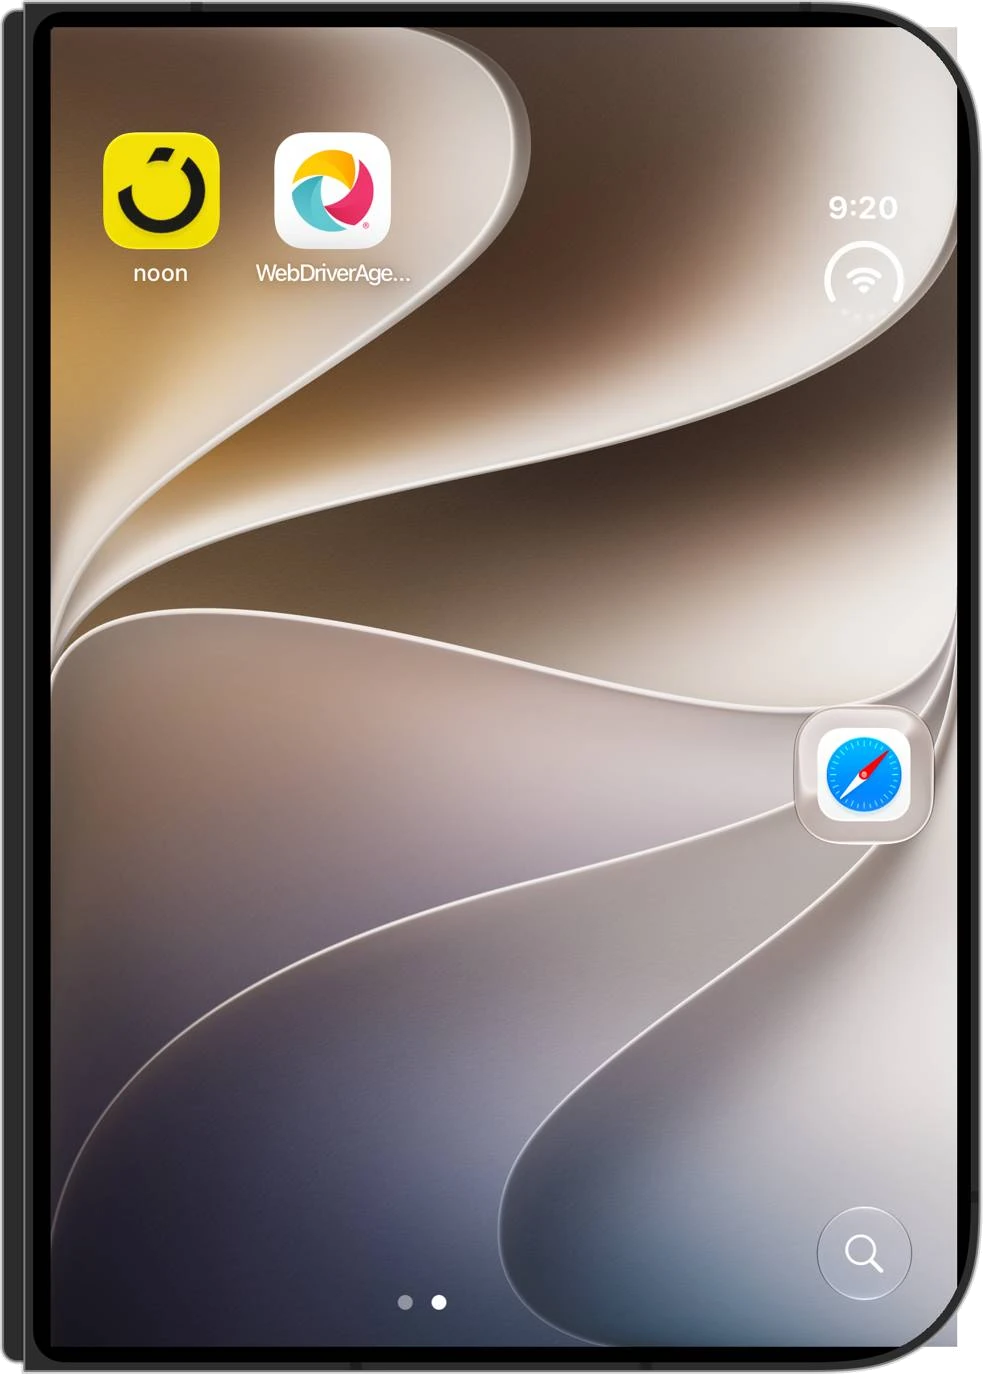
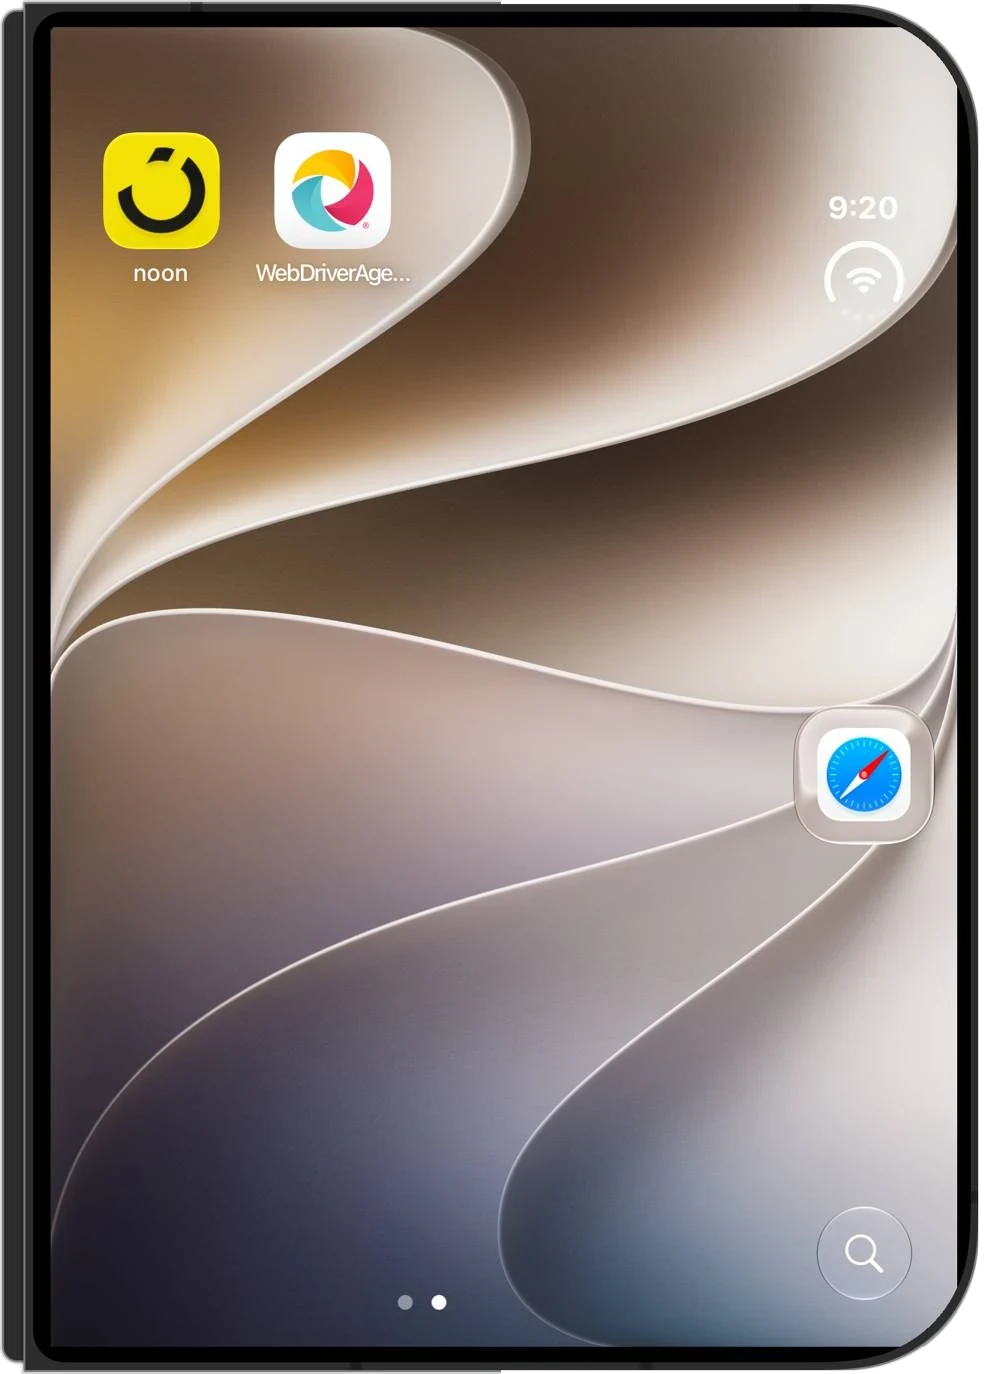
Crash screenshot: clip to the device's rounded outline
The audit's composite put a square screenshot under a rounded frame, so
the wallpaper showed past the top-right and bottom-right corners. The
image is now clipped to the frame's measured outline (right edge 978,
radius 128 at 1000px wide), anti-aliased; the hinge side is untouched.

diff --git a/project/slides/evidence-1.html b/project/slides/evidence-1.html
@@ -1,4 +1,4 @@
 <section id="evidence-1" data-transition="fade" style="background:#fafaf7; font-family:'Geist', Arial, sans-serif; font-weight:500; color:#111111; padding:96px">
-<p style="position:absolute; left:96px; top:72px; width:1100px; font-family:'Geist', Arial, sans-serif; font-weight:600; font-size:18px; letter-spacing:1.44px; text-transform:uppercase; color:#6b6b6b; white-space:nowrap">Problem  ·  Top findings, 1 of 2</p><h2 style="position:absolute; left:96px; top:108px; width:1240px; font-family:'Geist Pixel Square', 'Courier New', monospace; font-weight:400; font-size:52px; font-weight:400; line-height:1.1; letter-spacing:-1.04px; color:#111111; white-space:nowrap">What breaks on the fold today</h2><div style="position:absolute; left:824px; top:121px; width:1000px; height:44px; display:flex; flex-direction:row; justify-content:end; align-items:center; gap:16px"><p style="border:1px solid #d9d9d2; border-radius:100px; padding:9px 20px; font-family:'Geist', Arial, sans-serif; font-size:18px; font-weight:500; line-height:24px; color:#3a3a3a; white-space:nowrap">Crash&#160; → &#160;Wrong rail&#160; → &#160;Hinge</p><p style="font-family:'Geist', Arial, sans-serif; font-weight:500; font-size:18px; line-height:24px; color:#9a9a94; white-space:nowrap">05 / 33</p></div><div style="position:absolute; left:96px; top:205px; width:440px; height:811px; background:#f1f1ec; border-radius:28px; padding:24px; display:flex; flex-direction:column; gap:16px; overflow:hidden"><p style="font-family:'Geist', Arial, sans-serif; font-weight:600; font-size:14px; letter-spacing:1.4px; text-transform:uppercase; color:#8a8a84; white-space:nowrap">Wishlist  ·  fold closed</p><div style="flex:1; display:flex; flex-direction:row; justify-content:center; align-items:center; gap:24px"><div style="width:392px; display:flex; flex-direction:column; gap:22px"><div style="position:relative; width:392px; height:539px; flex:none"><img src="/_blob/9826d37a87b31067be73f9beb24156ed" alt="Fold the phone closed on Wishlist and noon quits to the home screen." style="position:absolute; left:0px; top:0px; width:392px; height:539px; object-fit:contain"><div style="position:absolute; left:31px; top:43px; width:64px; height:77px; border:3px solid #ff5b1f; border-radius:12px; background:rgba(255,91,31,0.07)"></div></div><div style="display:flex; flex-direction:column; gap:8px"><p style="font-family:'Geist', Arial, sans-serif; font-weight:600; font-size:22px; line-height:1.3; color:#111111">Fold the phone closed on Wishlist and noon quits to the home screen.</p><p style="font-family:'Geist', Arial, sans-serif; font-weight:500; font-size:16px; line-height:1.4; color:#8a8a84">Crash  ·  reproduced 2 of 2  ·  the only critical finding</p></div></div></div></div><div style="position:absolute; left:576px; top:205px; width:440px; height:811px; background:#f1f1ec; border-radius:28px; padding:24px; display:flex; flex-direction:column; gap:16px; overflow:hidden"><p style="font-family:'Geist', Arial, sans-serif; font-weight:600; font-size:14px; letter-spacing:1.4px; text-transform:uppercase; color:#8a8a84; white-space:nowrap">Order listing  ·  closed</p><div style="flex:1; display:flex; flex-direction:row; justify-content:center; align-items:center; gap:24px"><div style="width:392px; display:flex; flex-direction:column; gap:22px"><div style="position:relative; width:392px; height:546px; flex:none"><img src="/_blob/992ee423df9dfe817aa71701a4a08d0f" alt="The landscape tab rail shows on the closed screen, over the cards." style="position:absolute; left:0px; top:0px; width:392px; height:546px; object-fit:contain"><div style="position:absolute; left:309px; top:307px; width:49px; height:226px; border:3px solid #ff5b1f; border-radius:12px; background:rgba(255,91,31,0.07)"></div></div><div style="display:flex; flex-direction:column; gap:8px"><p style="font-family:'Geist', Arial, sans-serif; font-weight:600; font-size:22px; line-height:1.3; color:#111111">The landscape tab rail shows on the closed screen, over the cards.</p><p style="font-family:'Geist', Arial, sans-serif; font-weight:500; font-size:16px; line-height:1.4; color:#8a8a84">3.8 / 5  ·  same rail on 6 screens</p></div></div></div></div><div style="position:absolute; left:1056px; top:205px; width:768px; height:811px; background:#f1f1ec; border-radius:28px; padding:24px; display:flex; flex-direction:column; gap:16px; overflow:hidden"><p style="font-family:'Geist', Arial, sans-serif; font-weight:600; font-size:14px; letter-spacing:1.4px; text-transform:uppercase; color:#8a8a84; white-space:nowrap">Checkout  ·  half fold, landscape</p><div style="flex:1; display:flex; flex-direction:row; justify-content:center; align-items:center; gap:24px"><div style="width:720px; display:flex; flex-direction:column; gap:22px"><div style="position:relative; width:720px; height:523px; flex:none"><img src="/_blob/c02fff29f372c30099db20ffb4dbef3a" alt="The crease runs through the Checkout title, the free-shipping banner and the product name." style="position:absolute; left:0px; top:0px; width:720px; height:523px; object-fit:contain"><div style="position:absolute; left:346px; top:24px; width:29px; height:476px; border:3px solid #ff5b1f; border-radius:12px; background:rgba(255,91,31,0.07)"></div></div><div style="display:flex; flex-direction:column; gap:8px"><p style="font-family:'Geist', Arial, sans-serif; font-weight:600; font-size:22px; line-height:1.3; color:#111111">The crease runs through the Checkout title, the free-shipping banner and the product name.</p><p style="font-family:'Geist', Arial, sans-serif; font-weight:500; font-size:16px; line-height:1.4; color:#8a8a84">4.0 / 5  ·  content on the hinge on 5 screens</p></div></div></div></div>
+<p style="position:absolute; left:96px; top:72px; width:1100px; font-family:'Geist', Arial, sans-serif; font-weight:600; font-size:18px; letter-spacing:1.44px; text-transform:uppercase; color:#6b6b6b; white-space:nowrap">Problem  ·  Top findings, 1 of 2</p><h2 style="position:absolute; left:96px; top:108px; width:1240px; font-family:'Geist Pixel Square', 'Courier New', monospace; font-weight:400; font-size:52px; font-weight:400; line-height:1.1; letter-spacing:-1.04px; color:#111111; white-space:nowrap">What breaks on the fold today</h2><div style="position:absolute; left:824px; top:121px; width:1000px; height:44px; display:flex; flex-direction:row; justify-content:end; align-items:center; gap:16px"><p style="border:1px solid #d9d9d2; border-radius:100px; padding:9px 20px; font-family:'Geist', Arial, sans-serif; font-size:18px; font-weight:500; line-height:24px; color:#3a3a3a; white-space:nowrap">Crash&#160; → &#160;Wrong rail&#160; → &#160;Hinge</p><p style="font-family:'Geist', Arial, sans-serif; font-weight:500; font-size:18px; line-height:24px; color:#9a9a94; white-space:nowrap">05 / 33</p></div><div style="position:absolute; left:96px; top:205px; width:440px; height:811px; background:#f1f1ec; border-radius:28px; padding:24px; display:flex; flex-direction:column; gap:16px; overflow:hidden"><p style="font-family:'Geist', Arial, sans-serif; font-weight:600; font-size:14px; letter-spacing:1.4px; text-transform:uppercase; color:#8a8a84; white-space:nowrap">Wishlist  ·  fold closed</p><div style="flex:1; display:flex; flex-direction:row; justify-content:center; align-items:center; gap:24px"><div style="width:392px; display:flex; flex-direction:column; gap:22px"><div style="position:relative; width:392px; height:539px; flex:none"><img src="/_blob/5c4d1c7af2d1e0db1be9e181b76b5d62" alt="Fold the phone closed on Wishlist and noon quits to the home screen." style="position:absolute; left:0px; top:0px; width:392px; height:539px; object-fit:contain"><div style="position:absolute; left:31px; top:43px; width:64px; height:77px; border:3px solid #ff5b1f; border-radius:12px; background:rgba(255,91,31,0.07)"></div></div><div style="display:flex; flex-direction:column; gap:8px"><p style="font-family:'Geist', Arial, sans-serif; font-weight:600; font-size:22px; line-height:1.3; color:#111111">Fold the phone closed on Wishlist and noon quits to the home screen.</p><p style="font-family:'Geist', Arial, sans-serif; font-weight:500; font-size:16px; line-height:1.4; color:#8a8a84">Crash  ·  reproduced 2 of 2  ·  the only critical finding</p></div></div></div></div><div style="position:absolute; left:576px; top:205px; width:440px; height:811px; background:#f1f1ec; border-radius:28px; padding:24px; display:flex; flex-direction:column; gap:16px; overflow:hidden"><p style="font-family:'Geist', Arial, sans-serif; font-weight:600; font-size:14px; letter-spacing:1.4px; text-transform:uppercase; color:#8a8a84; white-space:nowrap">Order listing  ·  closed</p><div style="flex:1; display:flex; flex-direction:row; justify-content:center; align-items:center; gap:24px"><div style="width:392px; display:flex; flex-direction:column; gap:22px"><div style="position:relative; width:392px; height:546px; flex:none"><img src="/_blob/992ee423df9dfe817aa71701a4a08d0f" alt="The landscape tab rail shows on the closed screen, over the cards." style="position:absolute; left:0px; top:0px; width:392px; height:546px; object-fit:contain"><div style="position:absolute; left:309px; top:307px; width:49px; height:226px; border:3px solid #ff5b1f; border-radius:12px; background:rgba(255,91,31,0.07)"></div></div><div style="display:flex; flex-direction:column; gap:8px"><p style="font-family:'Geist', Arial, sans-serif; font-weight:600; font-size:22px; line-height:1.3; color:#111111">The landscape tab rail shows on the closed screen, over the cards.</p><p style="font-family:'Geist', Arial, sans-serif; font-weight:500; font-size:16px; line-height:1.4; color:#8a8a84">3.8 / 5  ·  same rail on 6 screens</p></div></div></div></div><div style="position:absolute; left:1056px; top:205px; width:768px; height:811px; background:#f1f1ec; border-radius:28px; padding:24px; display:flex; flex-direction:column; gap:16px; overflow:hidden"><p style="font-family:'Geist', Arial, sans-serif; font-weight:600; font-size:14px; letter-spacing:1.4px; text-transform:uppercase; color:#8a8a84; white-space:nowrap">Checkout  ·  half fold, landscape</p><div style="flex:1; display:flex; flex-direction:row; justify-content:center; align-items:center; gap:24px"><div style="width:720px; display:flex; flex-direction:column; gap:22px"><div style="position:relative; width:720px; height:523px; flex:none"><img src="/_blob/c02fff29f372c30099db20ffb4dbef3a" alt="The crease runs through the Checkout title, the free-shipping banner and the product name." style="position:absolute; left:0px; top:0px; width:720px; height:523px; object-fit:contain"><div style="position:absolute; left:346px; top:24px; width:29px; height:476px; border:3px solid #ff5b1f; border-radius:12px; background:rgba(255,91,31,0.07)"></div></div><div style="display:flex; flex-direction:column; gap:8px"><p style="font-family:'Geist', Arial, sans-serif; font-weight:600; font-size:22px; line-height:1.3; color:#111111">The crease runs through the Checkout title, the free-shipping banner and the product name.</p><p style="font-family:'Geist', Arial, sans-serif; font-weight:500; font-size:16px; line-height:1.4; color:#8a8a84">4.0 / 5  ·  content on the hinge on 5 screens</p></div></div></div></div>
 <aside>Straight from the Sentinel audit screenshots. Wishlist: folding closed crashes the app because the list changes from 4 to 2 columns while mounted; fix by keying the list on its column count. Order listing: the landscape tab rail is drawn in the closed portrait pose; show it only in landscape. Checkout: content straddles the hinge, and the audit notes the price is cut too; use hinge-aware layout so titles and prices stay in one pane.</aside>
 </section>

diff --git a/scripts/build_local.py b/scripts/build_local.py
@@ -12,7 +12,7 @@ refs = {'0a69c7ff68a6c42903ed6bfbb7825ea6':'04-split-view-maps-and-messages','cc
         'fbc5b8a875c73ea7bf917d677f3de23f':'14-overlay-arrangement-diagram','706ebcb38635853b8eda27e8e99e4e32':'15-split-view-controls-diagram','4933d8fadc3d335e9d43636a07f01706':'12-share-sheet-folded'}
 local.update({k: f'refs/{v}.png' for k, v in refs.items()})
 local.update({'a76e8e0e9d9a5b8ccdbf3c0d89484b37':'sentinel/homepage-closed.webp','0834969f7fbd8e640d9ea0e9eeb458de':'sentinel/homepage-open-portrait.webp','8cd18bee6e0422d6c69b5978a883aedb':'sentinel/homepage-open-landscape.webp','9ec634b926245a6c85a7308fb53387de':'sentinel/homepage-halffold-portrait.webp','2bc20e78958d31b709c784c4dab32605':'sentinel/homepage-halffold-landscape.webp','27d668aefa51b17dcebb22f571456954':'sentinel/orderdetails-open-landscape.webp'})
-local.update({'9826d37a87b31067be73f9beb24156ed':'sentinel/wishlist-fold-closed-crash.webp','992ee423df9dfe817aa71701a4a08d0f':'sentinel/orderlisting-closed.webp','c02fff29f372c30099db20ffb4dbef3a':'sentinel/checkout-halffold-landscape.webp','33e5ec85544b65a204b8dbb276ff9a05':'sentinel/plp-open-portrait.webp','a61c605fe5c11abaf978a74cf6143087':'sentinel/orderlisting-open-landscape.webp','a75f399840b0903b12b46b20ea63f6e8':'sentinel/cart-open-landscape.webp'})
+local.update({'5c4d1c7af2d1e0db1be9e181b76b5d62':'sentinel/wishlist-fold-closed-crash.webp','992ee423df9dfe817aa71701a4a08d0f':'sentinel/orderlisting-closed.webp','c02fff29f372c30099db20ffb4dbef3a':'sentinel/checkout-halffold-landscape.webp','33e5ec85544b65a204b8dbb276ff9a05':'sentinel/plp-open-portrait.webp','a61c605fe5c11abaf978a74cf6143087':'sentinel/orderlisting-open-landscape.webp','a75f399840b0903b12b46b20ea63f6e8':'sentinel/cart-open-landscape.webp'})
 local.update({'977ab621c418bae5eed81026fb0458de':'bezels/outer.webp','6f06750c6a86ab1359dcb905c184116c':'bezels/inner.webp','7a16c39abfc8418ae3908984520b4b49':'bezels/portrait.webp'})
 deck = json.load(open(f'{d}/project/deck.json'))
 secs = '\n'.join(re.sub(r'/_blob/([0-9a-f]{32})', lambda m: local[m.group(1)], open(f'{d}/project/slides/{s}.html').read().strip()) for s in deck['order'])

diff --git a/scripts/gen_slides.py b/scripts/gen_slides.py
@@ -148,7 +148,7 @@ add('status', header(0, 'Problem  ·  Sentinel audit', "Where noon's iOS app sta
 # Box coordinates are in the screenshot's pixels (1000 wide portrait, 1400 wide landscape).
 HI = '#ff5b1f'
 EV = {  # key: (asset id, width, height)
-    'crash':    ('9826d37a87b31067be73f9beb24156ed', 1000, 1374),
+    'crash':    ('5c4d1c7af2d1e0db1be9e181b76b5d62', 1000, 1374),
     'ol-c':     ('992ee423df9dfe817aa71701a4a08d0f', 1000, 1393),
     'co-hl':    ('c02fff29f372c30099db20ffb4dbef3a', 1400, 1017),
     'plp-op':   ('33e5ec85544b65a204b8dbb276ff9a05', 1000, 1376),
